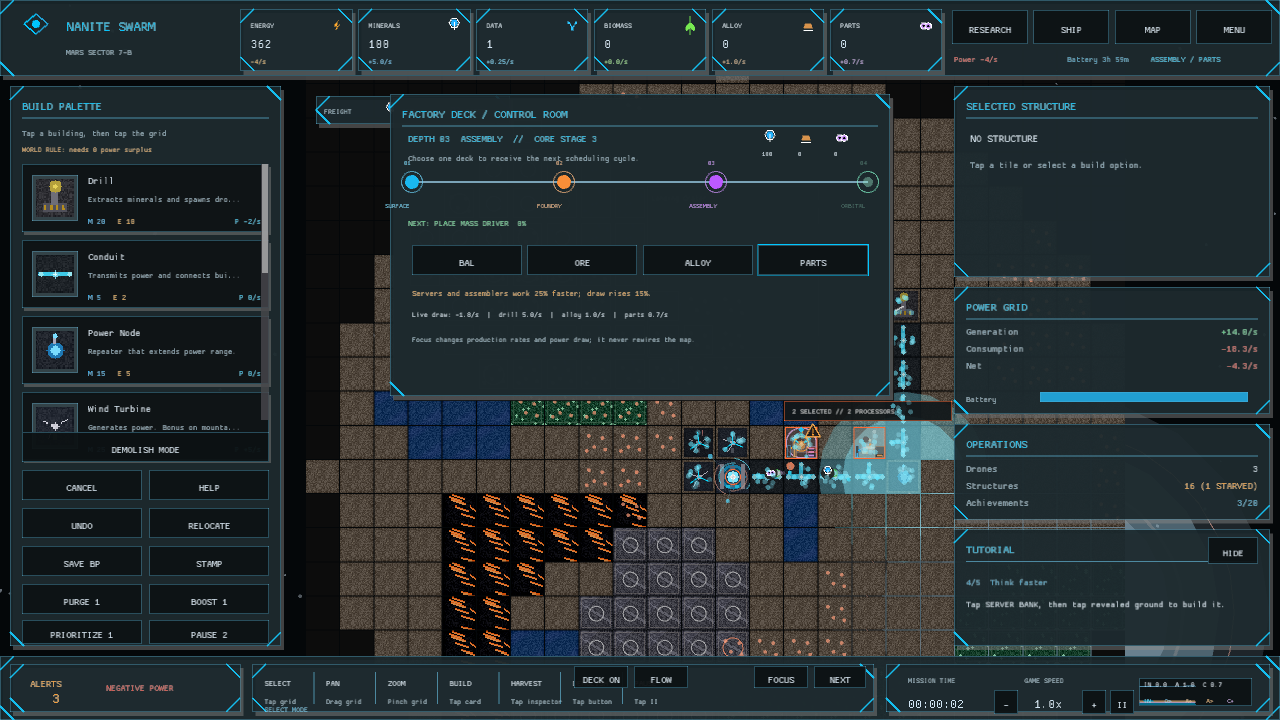
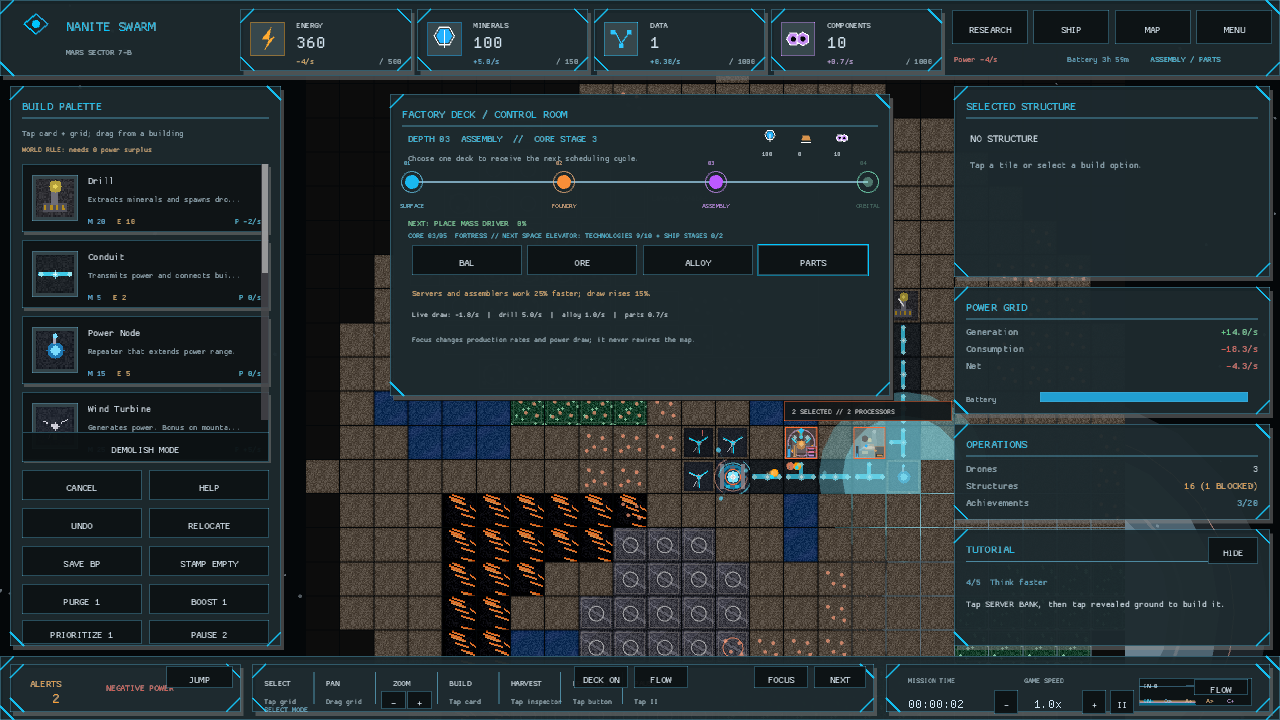
The Core marks the next rung in the control room (Factory Deck, Core progression)
The Factory Deck only exposed the current Core stage number, leaving the evolving objective opaque while the player managed production.

It now derives a compact next-stage line from the same milestone measurements that advance the Core, showing live progress for structures, network tiles, technologies, and Seed Ship stages where relevant. Narrow overlays use abbreviated labels and the existing width truncator, with focused tests and refreshed verification captures.

diff --git a/src/screens/planetary_view/factory_deck.rs b/src/screens/planetary_view/factory_deck.rs
@@ -1,11 +1,11 @@
 //! The compact control-room overlay for the factory's deeper decks.
 
 use crate::data::UiTheme;
-use crate::state::{FactoryFocus, PlanetState};
+use crate::state::{FactoryFocus, Milestone, PlanetState};
 use crate::ui::{color_from_rgba, draw_hud_button, draw_hud_panel, draw_resource_icon};
 use macroquad::prelude::*;
 use macroquad_toolkit::colors::with_alpha;
-use macroquad_toolkit::ui::{draw_ui_text, measure_ui_text};
+use macroquad_toolkit::ui::{draw_ui_text, measure_ui_text, truncate_text_to_width};
 
 use super::metrics::HudMetrics;
 
@@ -141,6 +141,18 @@ pub(super) fn draw_factory_depth_overlay(
         panel.y + 132.0,
         10.0,
         success,
+    );
+    let core_line = truncate_text_to_width(
+        &core_progress_text(state, narrow),
+        panel.w - 36.0,
+        if narrow { 8.0 } else { 9.0 },
+    );
+    draw_ui_text(
+        &core_line,
+        panel.x + 18.0,
+        panel.y + 144.0,
+        if narrow { 8.0 } else { 9.0 },
+        primary,
     );
 
     let focus_y = panel.y + 151.0;
@@ -289,6 +301,94 @@ fn narrow_focus_description(focus: FactoryFocus) -> &'static str {
         FactoryFocus::Extraction => "Drills +25%; draw +15%.",
         FactoryFocus::Refining => "Smelters +25%; draw +15%.",
         FactoryFocus::Assembly => "Servers +25%; draw +15%.",
+    }
+}
+
+fn core_progress_text(state: &PlanetState, narrow: bool) -> String {
+    let stages = state.core_stages();
+    if stages.is_empty() {
+        return "CORE // NO STAGE DATA".to_string();
+    }
+
+    let current_index = state.core_stage_index();
+    let current = &stages[current_index];
+    let stage_count = stages.len();
+    let Some(next) = stages.get(current_index + 1) else {
+        return if narrow {
+            format!("CORE {stage_count}/{stage_count} // FULLY EVOLVED")
+        } else {
+            format!(
+                "CORE {stage_count:02}/{stage_count:02}  {} // FULLY EVOLVED",
+                current.name.to_uppercase()
+            )
+        };
+    };
+
+    let requirements = next
+        .requires
+        .iter()
+        .filter_map(|requirement| {
+            let milestone = Milestone::from_id(&requirement.kind)?;
+            Some(format!(
+                "{} {}/{}",
+                core_requirement_label(milestone, narrow),
+                compact_requirement_amount(state.measure(milestone)),
+                compact_requirement_amount(requirement.target)
+            ))
+        })
+        .collect::<Vec<_>>()
+        .join(" + ");
+    let requirements = if requirements.is_empty() {
+        "AWAITING SIGNAL".to_string()
+    } else {
+        requirements
+    };
+
+    if narrow {
+        format!(
+            "CORE {}/{} -> {} | {}",
+            current_index + 1,
+            stage_count,
+            next.name.to_uppercase(),
+            requirements
+        )
+    } else {
+        format!(
+            "CORE {:02}/{:02}  {} // NEXT {}: {}",
+            current_index + 1,
+            stage_count,
+            current.name.to_uppercase(),
+            next.name.to_uppercase(),
+            requirements
+        )
+    }
+}
+
+fn core_requirement_label(milestone: Milestone, narrow: bool) -> &'static str {
+    if narrow {
+        match milestone {
+            Milestone::Structures => "STR",
+            Milestone::NetworkTiles => "NET",
+            Milestone::Technologies => "TECH",
+            Milestone::SeedShipStages => "SHIP",
+            _ => milestone.id(),
+        }
+    } else {
+        match milestone {
+            Milestone::Structures => "STRUCTURES",
+            Milestone::NetworkTiles => "NETWORK",
+            Milestone::Technologies => "TECHNOLOGIES",
+            Milestone::SeedShipStages => "SHIP STAGES",
+            _ => milestone.id(),
+        }
+    }
+}
+
+fn compact_requirement_amount(amount: f32) -> String {
+    if amount.fract().abs() > 0.05 {
+        format!("{amount:.1}")
+    } else {
+        format!("{amount:.0}")
     }
 }
 

diff --git a/src/screens/planetary_view/factory_deck/tests.rs b/src/screens/planetary_view/factory_deck/tests.rs
@@ -38,3 +38,24 @@ fn narrow_focus_copy_stays_short_enough_for_touch_cards() {
         assert!(narrow_focus_description(focus).len() <= 25);
     }
 }
+
+#[test]
+fn factory_deck_names_live_requirements_for_the_next_core_stage() {
+    let state = PlanetState::new(2, 42, crate::data::GameConfig::default());
+    let line = core_progress_text(&state, true);
+
+    assert!(line.starts_with("CORE 1/5 -> FOUNDRY"));
+    assert!(line.contains("STR "));
+    assert!(line.contains("NET "));
+}
+
+#[test]
+fn factory_deck_marks_a_fully_evolved_core() {
+    let mut state = PlanetState::new(2, 42, crate::data::GameConfig::default());
+    state.core_stage = (state.core_stages().len() - 1) as u8;
+
+    assert_eq!(
+        core_progress_text(&state, true),
+        "CORE 5/5 // FULLY EVOLVED"
+    );
+}

diff --git a/README.md b/README.md
@@ -158,8 +158,10 @@ Factory controls:
   capacity, utilization, priority badges, and traffic saturation.
 - Tap DECK for the Factory Control Room: see how far the base has reached from
   Surface to Orbital, choose Balanced, Ore, Alloy, or Parts focus, and read the
-  live production/power trade in one compact overlay. The DECK control remains
-  visible in the compact command bar so the overlay is always touch-closable.
+  live production/power trade in one compact overlay. The deck also shows the
+  current Core stage, next stage, and live milestone counters. The DECK control
+  remains visible in the compact command bar so the overlay is always
+  touch-closable.
 - Research Adaptive Clocking, then tap BOOST for 1.5x work at 1.75x power
   and 1.8x dust, or tap AUTO CLOCK to manage healthy lines automatically.
 - Use BOX SELECT to boost, prioritize, pause, resume, or safely purge a
